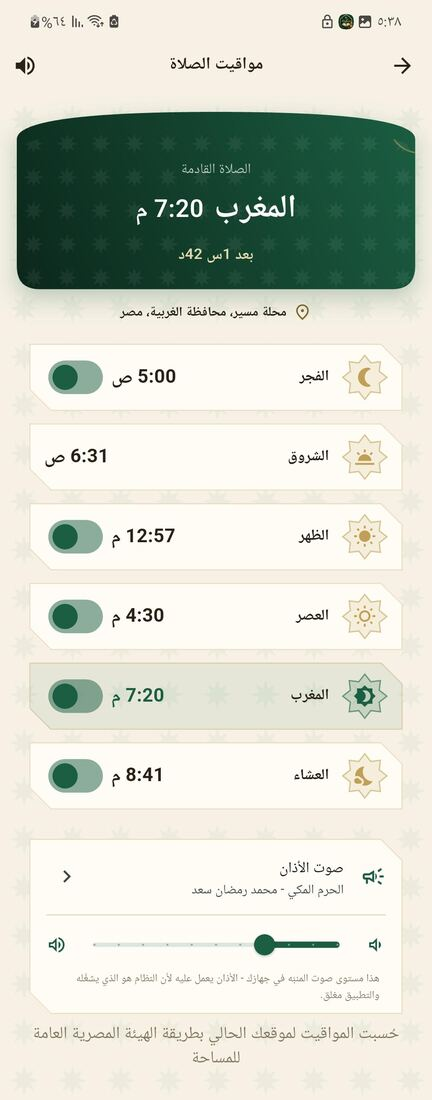
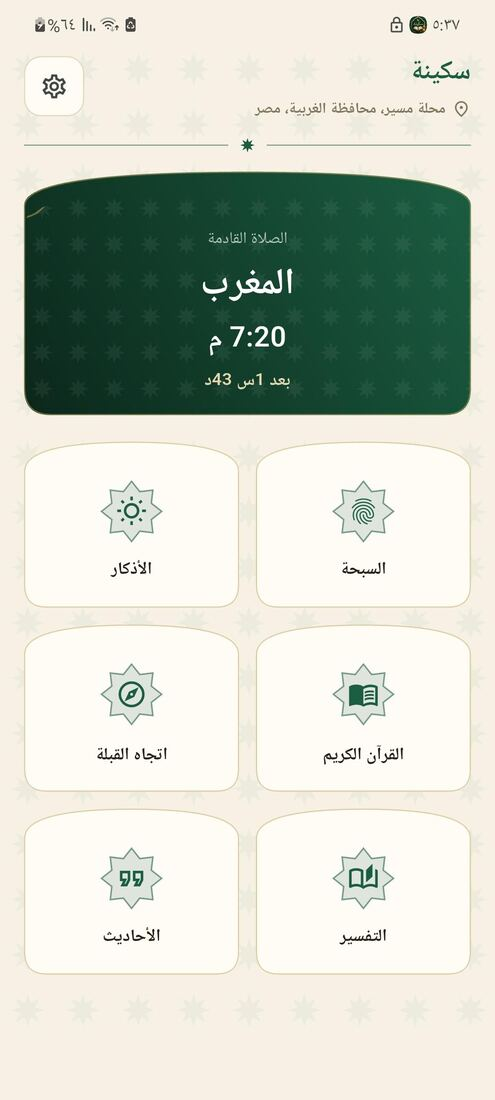
تحديث صفحة التنزيل

diff --git a/README.md b/README.md
@@ -27,19 +27,17 @@
 2. تحت عنوان **Assets** نزّل الملف الذي يبدأ بـ **`sakinah-`** وينتهي بـ **`.apk`** — وهو ملف واحد يعمل على كل هواتف أندرويد.
    (أما `Source code (zip)` و`(tar.gz)` فيضيفهما GitHub تلقائيًا ولا يحتويان على التطبيق — تجاهلهما.)
 3. افتح الملف بعد التنزيل. سيسألك أندرويد عن السماح بالتثبيت من هذا المصدر — اضغط **الإعدادات** ثم فعّل **السماح من هذا المصدر**، وارجع.
-4. اضغط **تثبيت**. قد تظهر رسالة من **Google Play للحماية (Play Protect)** تقول إن التطبيق غير معروف. اضغط **مزيد من التفاصيل** أولًا:
+4. اضغط **تثبيت**. قد تظهر شاشة زرقاء من Play Protect تقول **«تم حظر التطبيق لحماية جهازك»** — لا تضغط «حسنًا»، بل اضغط **مزيد من التفاصيل** ثم **التثبيت على أي حال** كما في الصورتين:
 
-<div align="center">
-  <img src="docs/install/01-play-protect-more-details.jpeg" width="300" alt="اضغط مزيد من التفاصيل في رسالة Play Protect">
-</div>
+<p align="center">
+  <img src="docs/screenshots/install-1.jpg" width="230">
+  &nbsp;&nbsp;
+  <img src="docs/screenshots/install-2.jpg" width="230">
+</p>
 
-5. بعد ظهور الخيارات الإضافية اضغط **التثبيت على أي حال**:
+> هذه الرسالة تظهر لأي تطبيق يُثبَّت من خارج متجر Play، ومعناها أن جوجل لم تفحص التطبيق — لا أن فيه ضررًا. ومن أراد التحقق بنفسه فبصمة توقيع الإصدار منشورة في مستودع المشروع.
 
-<div align="center">
-  <img src="docs/install/02-play-protect-install-anyway.jpeg" width="300" alt="اضغط التثبيت على أي حال في Play Protect">
-</div>
-
-6. عند أول فتح سيطلب التطبيق أذونات الإشعارات والموقع — وكلها لازمة لعمل الأذان والقبلة كما هو موضّح أدناه.
+5. عند أول فتح سيطلب التطبيق أذونات الإشعارات والموقع — وكلها لازمة لعمل الأذان والقبلة كما هو موضّح أدناه.
 
 > **ملاحظة عن التحديثات:** لتحديث التطبيق لاحقًا، نزّل الإصدار الأحدث من الصفحة نفسها وثبّته فوق القديم مباشرة — بياناتك وإعداداتك وتحميلاتك تبقى كما هي.
 
@@ -49,7 +47,7 @@
 
 | الرئيسية | مواقيت الصلاة | اتجاه القبلة |
 |:---:|:---:|:---:|
-| <img src="docs/screenshots/08-tasbih.jpg" width="240"> | <img src="docs/screenshots/01-home.jpg" width="240"> | <img src="docs/screenshots/05-qibla.jpg" width="240"> |
+| <img src="docs/screenshots/01-home.jpg" width="240"> | <img src="docs/screenshots/02-prayer-times.jpg" width="240"> | <img src="docs/screenshots/05-qibla.jpg" width="240"> |
 
 | المصحف | فهرس السور | التفسير |
 |:---:|:---:|:---:|
@@ -57,7 +55,7 @@
 
 | الأذكار | أذكار الصباح | السبحة | الأحاديث |
 |:---:|:---:|:---:|:---:|
-| <img src="docs/screenshots/06-adhkar.jpg" width="200"> | <img src="docs/screenshots/07-adhkar-morning.jpg" width="200"> | <img src="docs/screenshots/02-prayer-times.jpg" width="200"> | <img src="docs/screenshots/10-hadith.jpg" width="200"> |
+| <img src="docs/screenshots/06-adhkar.jpg" width="200"> | <img src="docs/screenshots/07-adhkar-morning.jpg" width="200"> | <img src="docs/screenshots/08-tasbih.jpg" width="200"> | <img src="docs/screenshots/10-hadith.jpg" width="200"> |
 
 ---
 
